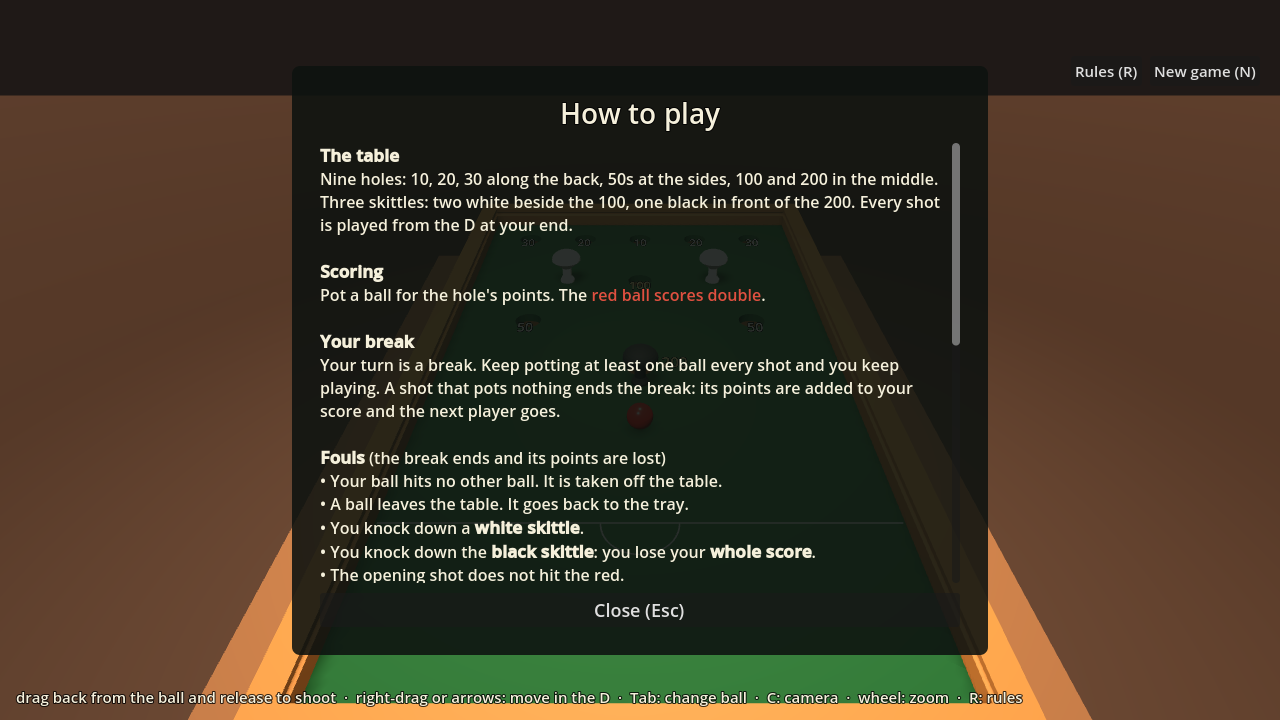
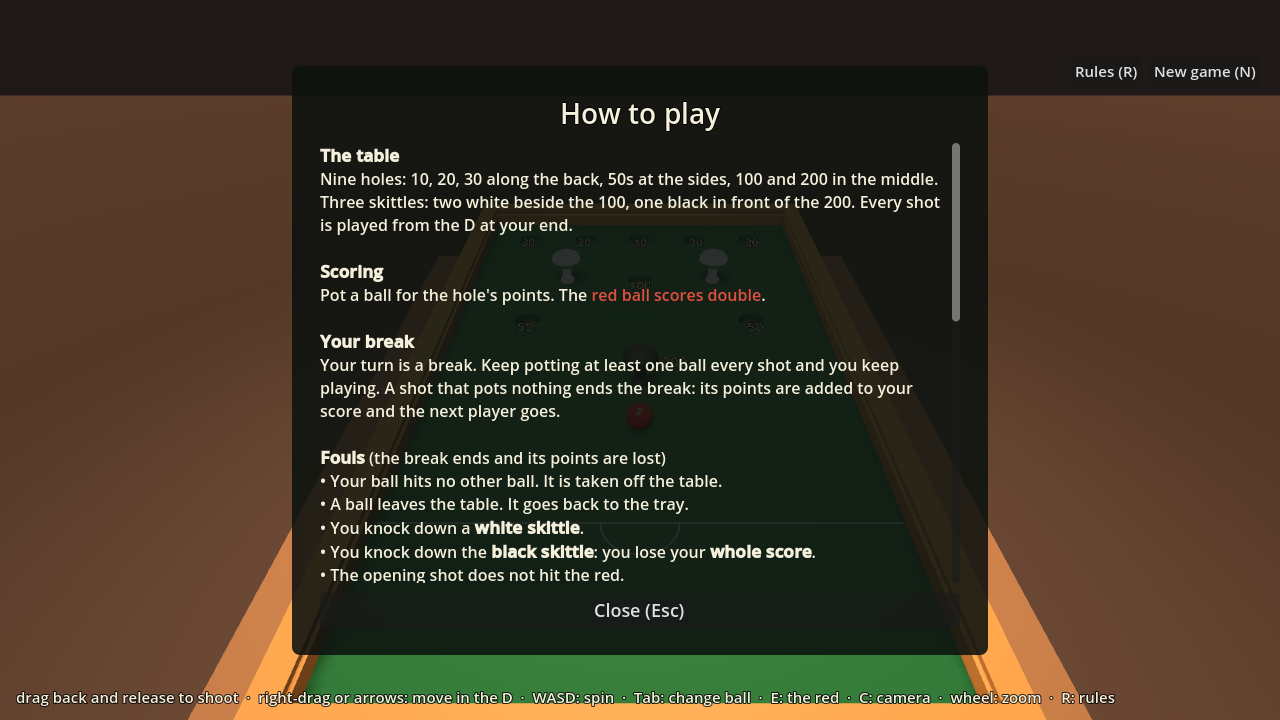
Game: spin - pick where the tip strikes; follow, draw and side off a cushion
A ball face in the corner (or W A S D) sets the tip position; strike() turns
it into spin (5bv/2r^2, up to half a radius off centre) and the felt friction
does the rest. A ball stopped dead with back spin keeps it, so it draws.
Tested on the table: top spin follows on, back spin comes back, running side
sends the white along the cushion and check side holds it off. The aim guide
fades its after-contact lines when there is spin.

Changed region(s): [[0.0625, 0.9472, 0.875, 0.9778], [0.7188, 0.4583, 0.75, 0.4889]]

diff --git a/godot/e2e/web_smoke.py b/godot/e2e/web_smoke.py
@@ -80,6 +80,7 @@ def inside() -> int:
             page.mouse.click(640, 30)
             page.keyboard.press("Enter")
             page.wait_for_timeout(2500)
+            page.keyboard.press("w")            # a little top spin: the pad shows it
             # The ball waits in the D, low and centred in the player's view;
             # drag back towards the player and let go.
             page.mouse.move(640, 512)

diff --git a/TODO.md b/TODO.md
@@ -12,7 +12,7 @@ teach us the most, not by what is easiest.
 | Shared ball return | 9 of 9 balls reach the tray | Godot physics, life size |
 | Sorted ball return | 9 of 9 balls reach the right lane | Godot physics, life size |
 | Scoreboard | Geometry and fit checked | `check.py` rules 12 |
-| Game | Plays to the rules: breaks, fouls, skittles, last ball, clock, score limit, 1–4 players or the computer | `godot/tools/game_test.py`: 63 rule checks + 74 on the table; `--autoplay` soaks (40 random, 60 computer shots, no ball lost) |
+| Game | Plays to the rules: breaks, fouls, skittles, last ball, clock, score limit, 1–4 players or the computer | `godot/tools/game_test.py`: 63 rule checks + 81 on the table; `--autoplay` soaks (40 random, 60 computer shots, no ball lost) |
 | Web build | Loads, plays a shot, the computer replies, in Chromium | `godot/e2e/web_smoke.py` (headless, SwiftShader); the owner has played it once |
 | VR | **Never run** | — |
 | **Anything printed** | **No** | — |
@@ -84,11 +84,16 @@ Everything below this line is speculation until a plate comes off.
       back in the tray (E, or a button) — all done. Still for a human to judge: the
       power range, whether the pocket help is too much or too little
       (`POCKET_REACH`, `POCKET_PULL` in game.gd), and touch on a phone.
-- [ ] **Side spin, and aim-then-power.** The two ideas worth taking from
-      Shadowfetch Pool (MIT): a torque impulse for side, and aiming with
-      the mouse while setting power separately (wheel, or a held button).
-      The aim guide's 90° rule is only exact without spin, so spin needs
-      the guide to say so.
+- [x] **Spin.** The player picks where the tip strikes (a ball face in the
+      corner, or W A S D); `game.strike()` turns it into spin and the felt
+      friction does the rest. Tested: top spin follows on, back spin draws
+      back, side changes the angle off a cushion. The aim guide fades its
+      after-contact lines when there is spin rather than predicting curves.
+      Check side is weaker than running side, because a plain ball already
+      slides along the cushion. Not done: swerve (no cue elevation), squirt.
+- [ ] **Let the computer use spin.** It always strikes the centre.
+- [ ] **Aim-then-power.** From Shadowfetch Pool (MIT): aim with the mouse,
+      set power separately (wheel, or a held button).
 - [ ] **Try VR.** `scripts/xr_rig.gd` is written against OpenXR and falls
       back cleanly when no runtime answers — which is all that has ever been
       tested. Needs a headset. Expect the cue to be the hard part: pointing

diff --git a/godot/README.md b/godot/README.md
@@ -153,11 +153,12 @@ cases, 63 checks. `tests/test_game.gd` then plays each rule out on the real
 table through the physics — a pot seen and scored, the red doubled, a miss
 returned, the red re-spotted on a cleared table, both skittles, a ball off
 the table, a ball left in baulk, every ball in play, the score limit, four
-players rotating, choosing the red from the tray, the clock dropping the
+players rotating, choosing the red from the tray, top and back spin
+following through and drawing back, side spin off a cushion, the clock dropping the
 bar, the last-ball rule, the
 computer taking its turn and potting easy balls — plus that skittles stand
 still when nothing touches them, that a struck ball runs straight, and that
-the computer's pace model still matches the felt: 74 checks.
+the computer's pace model still matches the felt: 81 checks.
 
 ### The physics test
 

diff --git a/README.md b/README.md
@@ -317,7 +317,9 @@ harder the shot (the bar goes green → amber → red). While you aim, a ghost
 ball shows where it will make contact, and lines show where the ball it hits
 will go and where yours will glance off. Right-drag or the arrow keys move
 your ball within the D, **Tab** swaps it for another from the tray, **E**
-(or the red button, shown when the red is in the tray) plays the red, **C**
+(or the red button, shown when the red is in the tray) plays the red,
+**W A S D** or the ball face in the corner put spin on (top follows
+through, back draws, side changes the angle off a cushion), **C**
 switches to the overhead camera, the wheel zooms, **R** shows the rules and
 **N** starts a new game. Each hole's value is marked beside it.
 
